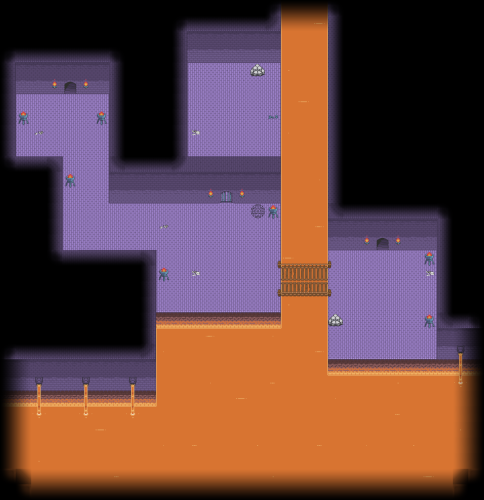
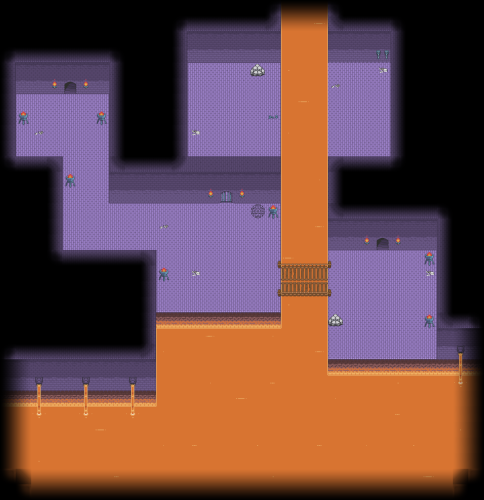
added a triforce item to the level muspelheim lava dungeon

Changed region(s): [[0.6508, 0.03, 0.8368, 0.36]]

diff --git a/core/src/net/jfabricationgames/gdx/item/TriforceItem.java b/core/src/net/jfabricationgames/gdx/item/TriforceItem.java
@@ -29,6 +29,7 @@ public class TriforceItem extends Item {
 		
 		TRIFORCE_MUSPELHEIM_DESERT(TriforceItemLocation.MUSPELHEIM), //
 		TRIFORCE_MUSPELHEIM_LAVA_CAVES(TriforceItemLocation.MUSPELHEIM), //
+		TRIFORCE_MUSPELHEIM_LAVA_DUNGEON(TriforceItemLocation.MUSPELHEIM), //
 		
 		TRIFORCE_ASGARD_CASTLE(TriforceItemLocation.ASGARD), //
 		TRIFORCE_ASGARD_FOREST(TriforceItemLocation.ASGARD); //
